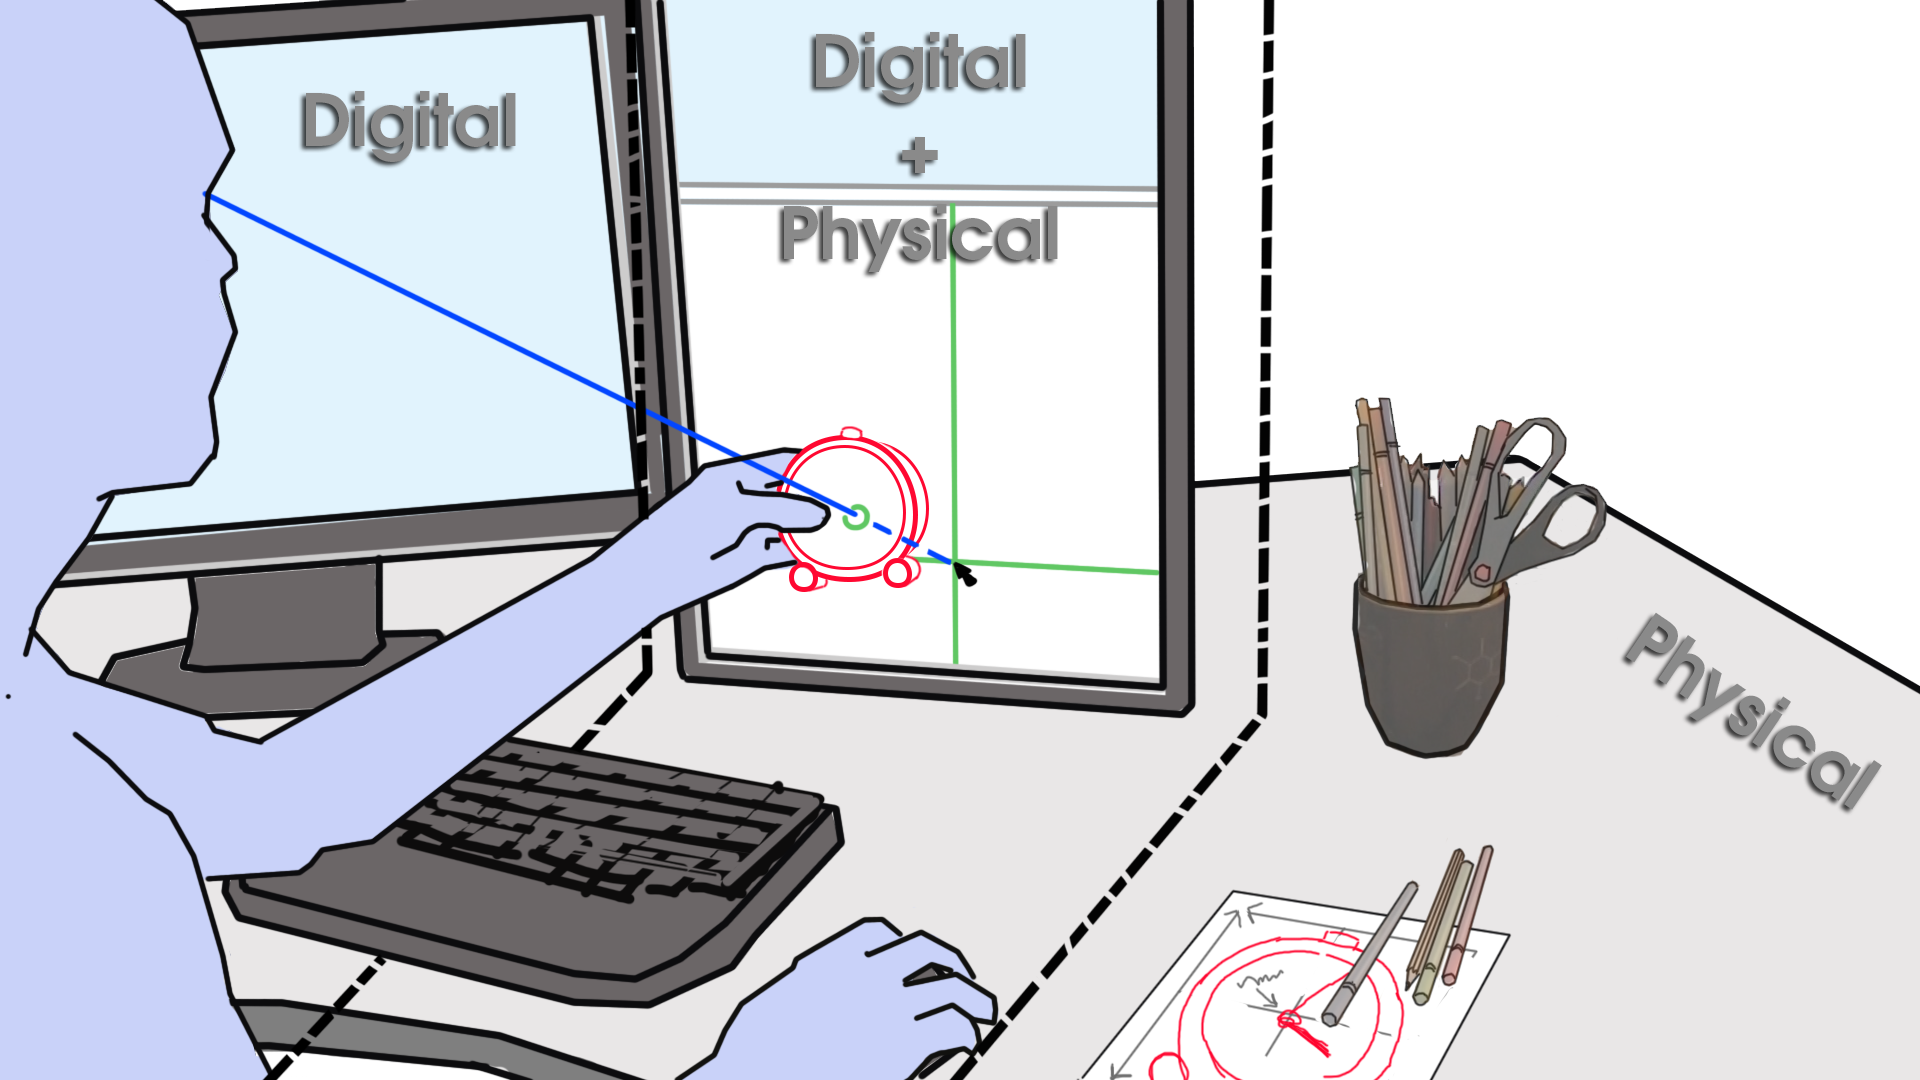
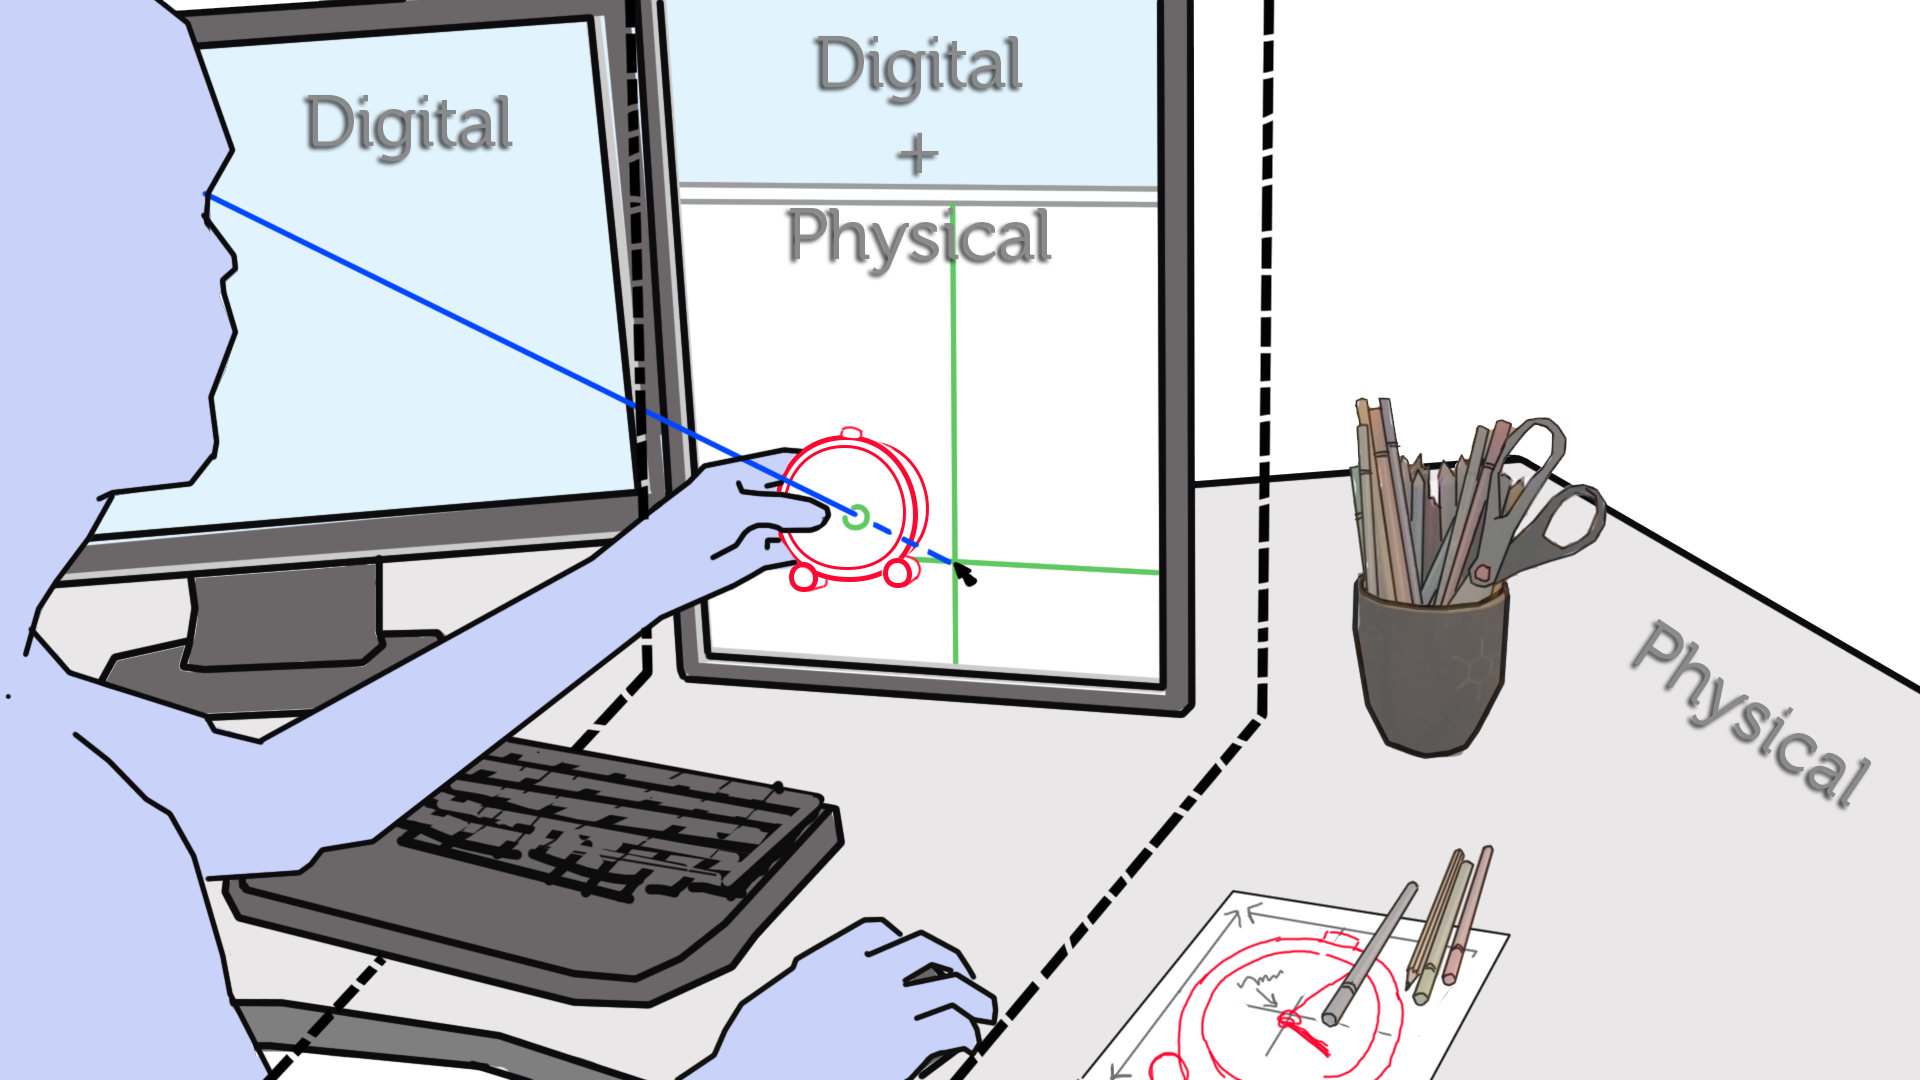
tports teaser with correct fonts + adding highlights for hybrid workspaces

diff --git a/index.html b/index.html
@@ -298,9 +298,8 @@ Source: Antoine Geiger's SUR-FAKE
 - Fragile: e.g. museum
 </div>
 -->
-</section><section id="pointing-in-sar" class="slide level2">
-<h1>Pointing in SAR</h1>
-</section><section id="section-17" class="slide level2" data-transition="fade">
+</section></section>
+<section><section id="pointing-in-sar" class="titleslide slide level1"><h1>Pointing in SAR</h1></section><section id="section-17" class="slide level2" data-transition="fade">
 <h1></h1>
 <h3 id="standard-way-of-pointing">Standard way of pointing</h3>
 <img src="./img/cursar-virtual-pointing.png" width="700px">
@@ -474,9 +473,10 @@ Does pointing still works without a screen?
 <li>Mixes desktop + reality around workspace</li>
 </ul>
 </aside>
-</section><section id="tangible-viewports" class="slide level2">
-<h1>Tangible Viewports</h1>
-</section><section id="section-20" class="slide level2" data-background="./img/tangible-viewport.jpg">
+</section><section class="slide level2">
+
+</section></section>
+<section><section id="tangible-viewports" class="titleslide slide level1"><h1>Tangible Viewports</h1></section><section id="section-20" class="slide level2" data-background="./img/tports-video-teaser.png" data-transition="fade">
 <h1></h1>
 <aside class="notes">
 <ul>
@@ -484,12 +484,19 @@ Does pointing still works without a screen?
 <li>Here, we keep the screen context for interaction and interact with a physical object when it is located <em>in front of the screen</em></li>
 </ul>
 </aside>
+</section><section id="section-21" class="slide level2" data-background="./img/tports-video-teaser-highlight.png" data-transition="fade">
+<h1></h1>
+<aside class="notes">
+<ul>
+<li>Focus on hybrid environment</li>
+</ul>
+</aside>
 </section><section id="thank-you" class="slide level2" data-background="./img/logos.png">
 <h1>Thank You</h1>
 <p>renaudgervais.github.io</p>
 <p><small>These slides are available online at <br> renaudgervais.github.io/presentations</small></p>
 </section></section>
-<section><section id="section-21" class="titleslide slide level1"><h1></h1></section><section class="slide level2">
+<section><section id="section-22" class="titleslide slide level1"><h1></h1></section><section class="slide level2">
 
 <h3 id="results-1">Results</h3>
 <p><img src="./img/table.png" width="950px" style="background:none; border:none; box-shadow:none;"></p>

diff --git a/phd-defense.md b/phd-defense.md
@@ -296,7 +296,7 @@ Using standard 2D pointing devices such as a *mouse* or a *graphics tablet*
 -->
 
 
-## Pointing in SAR
+# Pointing in SAR
 
 
 ## {data-transition="fade"}
@@ -462,16 +462,21 @@ Note: $R^2=0.8479$
 ---
 
 
-## Tangible Viewports
+# Tangible Viewports
 
 
-## {data-background="./img/tangible-viewport.jpg"}
+## {data-background="./img/tports-video-teaser.png" data-transition="fade"}
 
 <div class="notes">
 - We continued our investigation varying the different way to leverage the screen context
 - Here, we keep the screen context for interaction and interact with a physical object when it is located *in front of the screen*
 </div>
 
+
+## {data-background="./img/tports-video-teaser-highlight.png" data-transition="fade"}
+<div class="notes">
+- Focus on hybrid environment
+</div>
 
 
 
